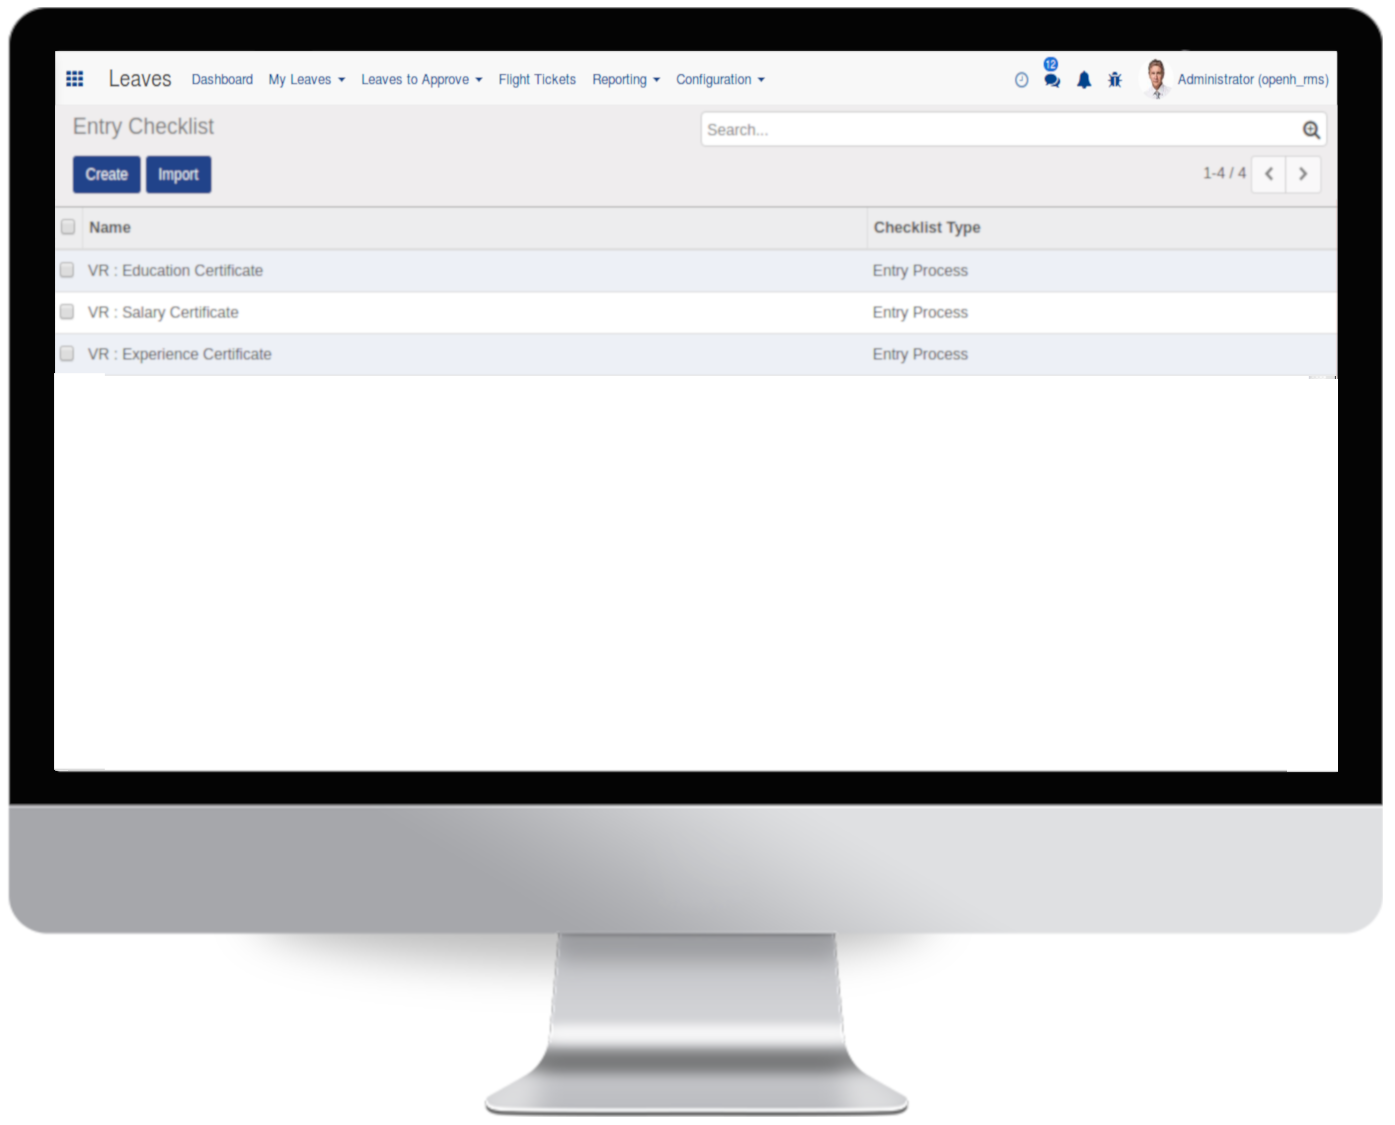
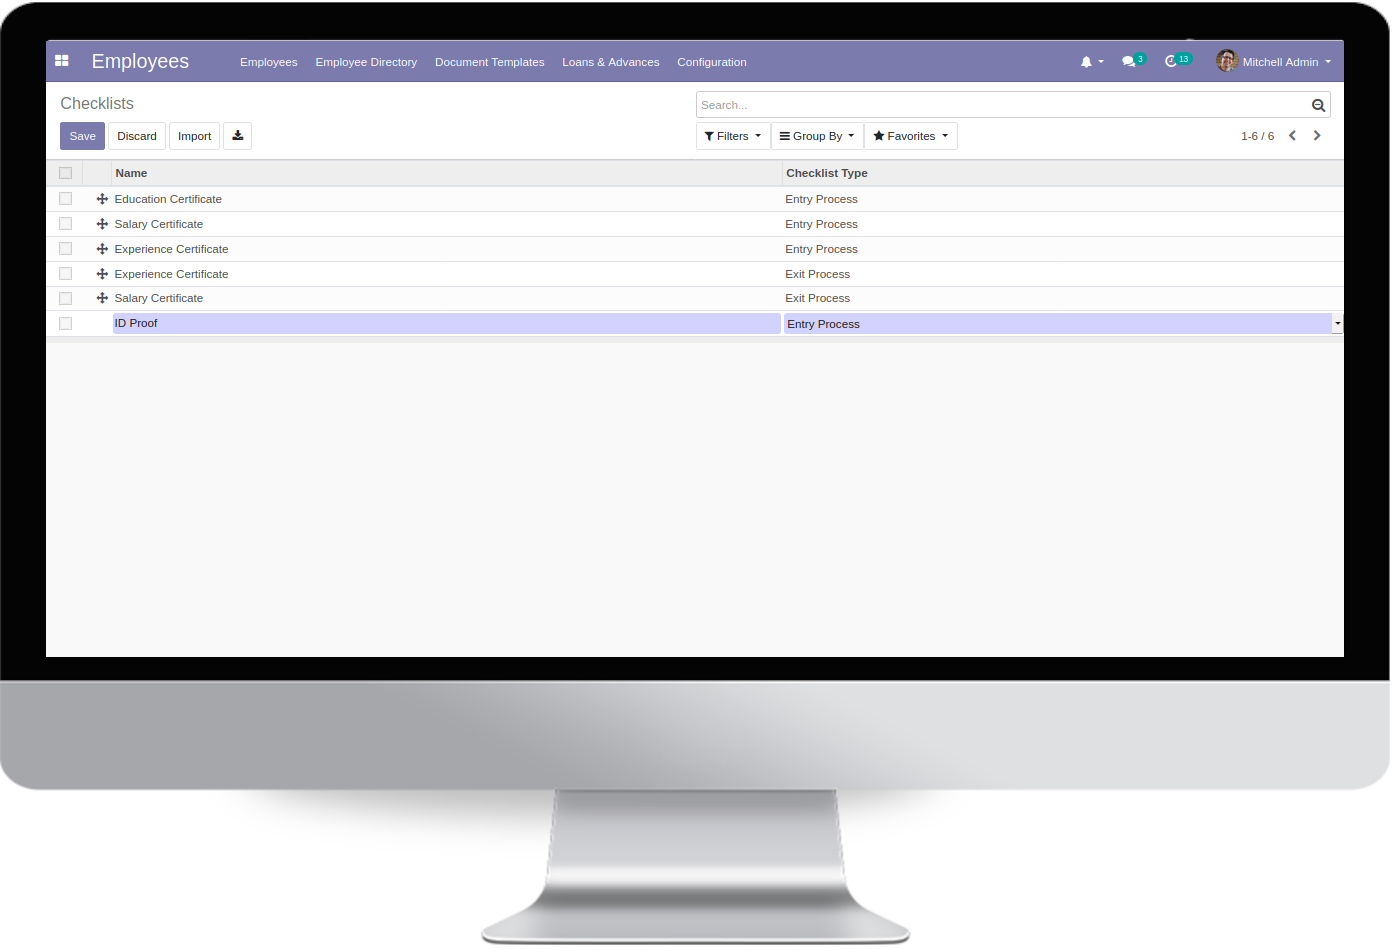
[UPDT] index update

Changed region(s): [[0.0, 0.0, 1.0, 0.8242], [0.3398, 0.9768, 0.6487, 1.0], [0.0309, 0.8242, 0.1545, 0.8547]]

diff --git a/oh_employee_check_list/static/description/index.html b/oh_employee_check_list/static/description/index.html
@@ -50,8 +50,8 @@
             <div class="col-md-12" style="font-size: 16px;color: #000 !important">
                 <img style="border:8px white; width:17px" src="oh_icon.png"> Managing entry/exit process. </span><br/>
                 <img style="border:8px white; width:17px" src="oh_icon.png"> Automatic process on document attachments. </span><br/>
-                <img style="border:8px white; width:17px" src="oh_icon.png"> Option to enable Gauge widget for employee kanban. </span><br/>
-                <img style="border:8px white; width:17px" src="oh_icon.png"> Entry/Exit Percentpie in employee form view. </span><br/>
+                <img style="border:8px white; width:17px" src="oh_icon.png"> Checklist in Onboarding and Ofboarding process </span><br/>
+                <img style="border:8px white; width:17px" src="oh_icon.png"> Entry/Exit percentage in employee form view. </span><br/>
                 <img style="border:8px white; width:17px" src="oh_icon.png"> Entry Progressbar in employee tree view. </span><br/>
                 <br/>
             </div>
@@ -72,9 +72,6 @@
         <div class="oe_row oe_spaced">
             <img src="open-hrms-employee-checklist-1.png" alt="" style="width: 95%;"/>
         </div>
-        <div class="oe_row oe_spaced">
-            <img src="open-hrms-employee-checklist-2.png" alt="" style="width: 95%;"/>
-        </div>
         <h3 class="oe_slogan" style="text-align: left;padding: 3% 0% 0% 0%;font-size: 16px;width: 90%;margin: 0;margin-top: 14px;color: #000 !important;opacity: 1 !important;line-height: 24px;">
             <img style="border:8px white; width:17px" src="oh_icon.png">
              Employee From View With PercentPie.
@@ -93,19 +90,77 @@
         </div>
         <h3 class="oe_slogan" style="text-align: left;padding: 3% 0% 0% 0%;font-size: 16px;width: 90%;margin: 0;margin-top: 14px;color: #000 !important;opacity: 1 !important;line-height: 24px;">
             <img style="border:8px white; width:17px" src="oh_icon.png">
-             Employee Kanban View with Gauge
+             Check list will be mark using launch plan.
              </span><br/>
          </h3>
         <div class="oe_row oe_spaced">
-            <img src="open-hrms-employee-checklist-5.png" alt="" style="width: 95%;"/>
+            <img src="check_1.png" alt="" style="width: 95%;"/>
         </div>
         <h3 class="oe_slogan" style="text-align: left;padding: 3% 0% 0% 0%;font-size: 16px;width: 90%;margin: 0;margin-top: 14px;color: #000 !important;opacity: 1 !important;line-height: 24px;">
             <img style="border:8px white; width:17px" src="oh_icon.png">
-             Configuration
+             In lunch plan we have two type of plans Onboarding and Offboarding.
+             </span><br/>
+         </h3>
+        <h3 class="oe_slogan" style="text-align: left;padding: 3% 0% 0% 0%;font-size: 16px;width: 90%;margin: 0;margin-top: 14px;color: #000 !important;opacity: 1 !important;line-height: 24px;">
+            <img style="border:8px white; width:17px" src="oh_icon.png">
+             In plan, Need to add checklist activity.
              </span><br/>
          </h3>
         <div class="oe_row oe_spaced">
-            <img src="open-hrms-employee-checklist-6.png" alt="" style="width: 95%;"/>
+            <img src="check45.png" alt="" style="width: 95%;"/>
+        </div>
+         <h3 class="oe_slogan" style="text-align: left;padding: 3% 0% 0% 0%;font-size: 16px;width: 90%;margin: 0;margin-top: 14px;color: #000 !important;opacity: 1 !important;line-height: 24px;">
+            <img style="border:8px white; width:17px" src="oh_icon.png">
+             Here we can see checklist activity in the plan record.
+             </span><br/>
+         </h3>
+        <div class="oe_row oe_spaced">
+            <img src="check47.png" alt="" style="width: 95%;"/>
+        </div>
+        <h3 class="oe_slogan" style="text-align: left;padding: 3% 0% 0% 0%;font-size: 16px;width: 90%;margin: 0;margin-top: 14px;color: #000 !important;opacity: 1 !important;line-height: 24px;">
+            <img style="border:8px white; width:17px" src="oh_icon.png">
+             After conforming checklist activity in plan need to click lunch button.
+             </span><br/>
+         </h3>
+        <div class="oe_row oe_spaced">
+            <img src="check16.png" alt="" style="width: 95%;"/>
+        </div>
+        <h3 class="oe_slogan" style="text-align: left;padding: 3% 0% 0% 0%;font-size: 16px;width: 90%;margin: 0;margin-top: 14px;color: #000 !important;opacity: 1 !important;line-height: 24px;">
+            <img style="border:8px white; width:17px" src="oh_icon.png">
+             It will trigger activities in the planed activities, Here we can see checklist activity then click edit button.
+             </span><br/>
+         </h3>
+        <div class="oe_row oe_spaced">
+            <img src="check10.png" alt="" style="width: 95%;"/>
+        </div>
+        <h3 class="oe_slogan" style="text-align: left;padding: 3% 0% 0% 0%;font-size: 16px;width: 90%;margin: 0;margin-top: 14px;color: #000 !important;opacity: 1 !important;line-height: 24px;">
+            <img style="border:8px white; width:17px" src="oh_icon.png">
+             By clicking edit it return a view like below, Here we can see checklist's.
+             </span><br/>
+         </h3>
+        <div class="oe_row oe_spaced">
+            <img src="check48.png" alt="" style="width: 95%;"/>
+        </div>
+        <h3 class="oe_slogan" style="text-align: left;padding: 3% 0% 0% 0%;font-size: 16px;width: 90%;margin: 0;margin-top: 14px;color: #000 !important;opacity: 1 !important;line-height: 24px;">
+            <img style="border:8px white; width:17px" src="oh_icon.png">
+             Check needed checklist and save the view.
+             </span><br/>
+         </h3>
+        <div class="oe_row oe_spaced">
+            <img src="check31.png" alt="" style="width: 95%;"/>
+        </div>
+        <h3 class="oe_slogan" style="text-align: left;padding: 3% 0% 0% 0%;font-size: 16px;width: 90%;margin: 0;margin-top: 14px;color: #000 !important;opacity: 1 !important;line-height: 24px;">
+            <img style="border:8px white; width:17px" src="oh_icon.png">
+             After saving the page just reload the page.
+             </span><br/>
+         </h3>
+        <h3 class="oe_slogan" style="text-align: left;padding: 3% 0% 0% 0%;font-size: 16px;width: 90%;margin: 0;margin-top: 14px;color: #000 !important;opacity: 1 !important;line-height: 24px;">
+            <img style="border:8px white; width:17px" src="oh_icon.png">
+             In employee checklist page you can see checked checklist's.
+             </span><br/>
+         </h3>
+        <div class="oe_row oe_spaced">
+            <img src="check05.png" alt="" style="width: 95%;"/>
         </div>
     </div>
 </section>
